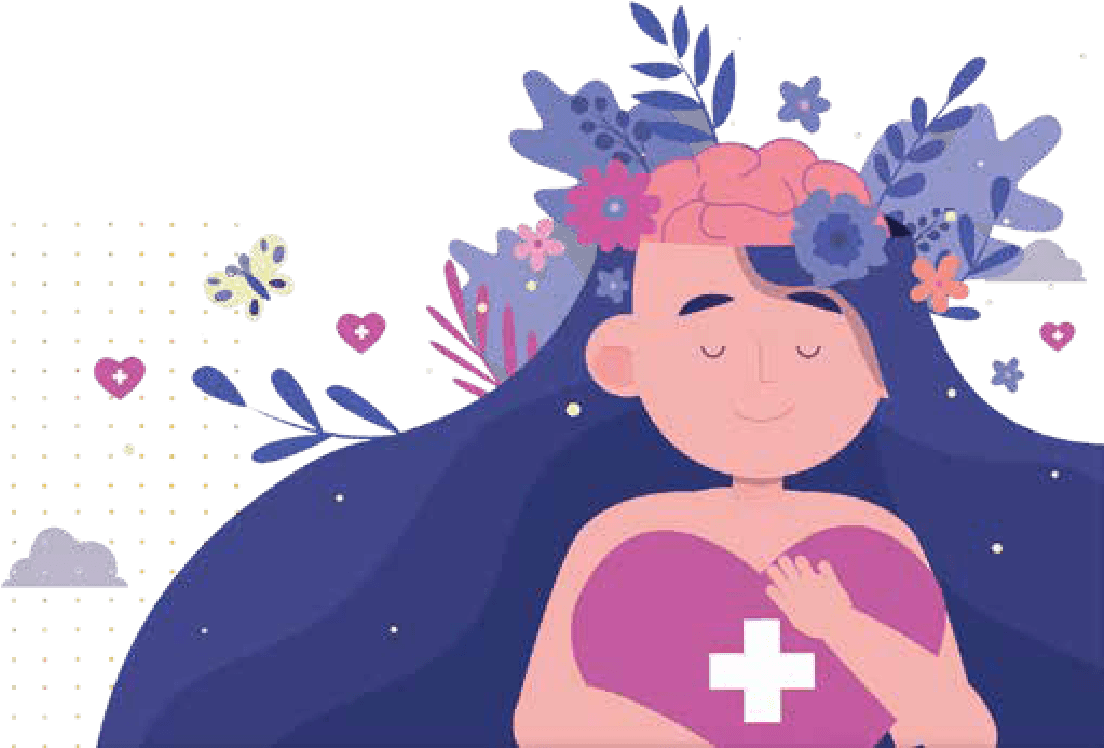
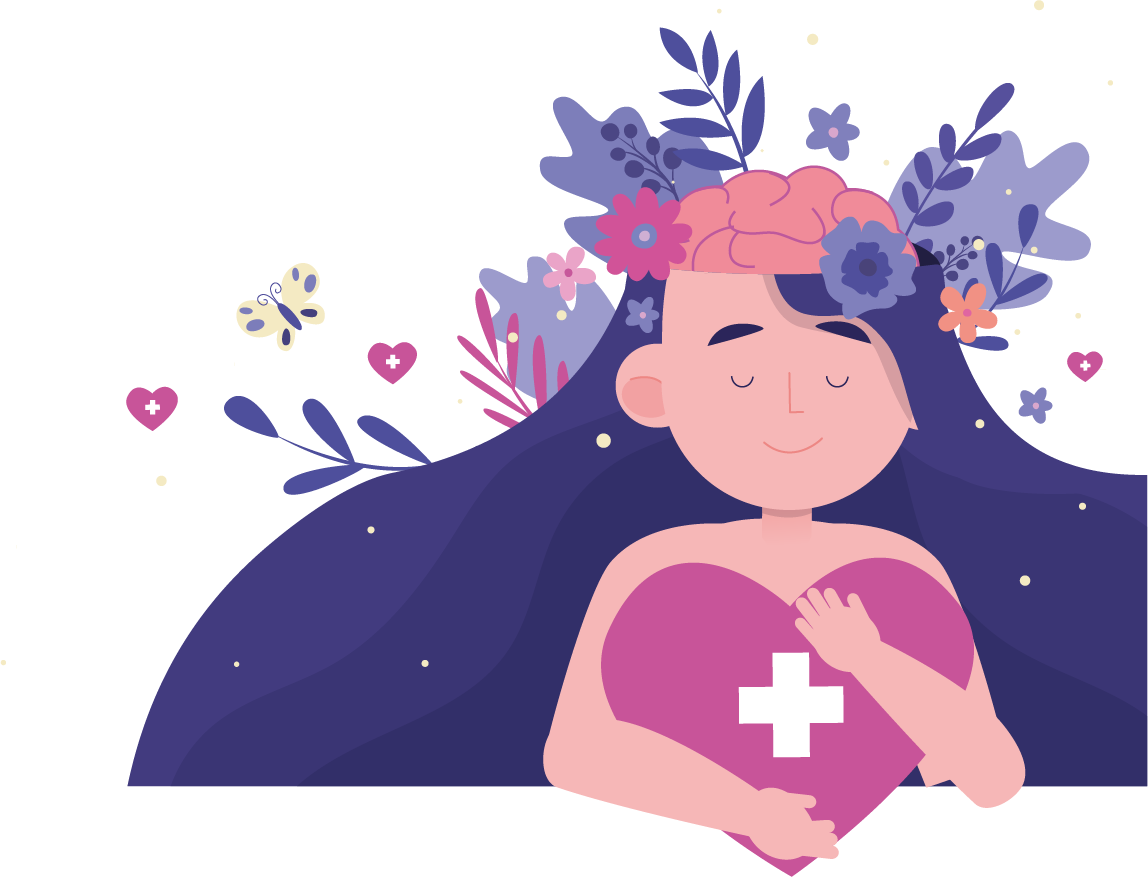
imagenes corregidas

diff --git a/html/index.html b/html/index.html
@@ -195,7 +195,7 @@
                 <p>
                     Es una Red Nacional de acompañamiento remoto a través de la cual se brinda acompañamiento a la salud mental de personas adolescentes y jóvenes que atraviesan problemáticas emocionales y psicosociales, quienes solicitan y reciben la atención a través de mensajería electrónica (WhatsApp y Facebook Messenger).  
                 </p>
-                <h1>¿Quién brinda el acompañamiento ? </h1>
+                <h1>¿Quién brinda el acompañamiento? </h1>
                 <p>
                     El servicio de acompañamiento psicoemocional que se promueve a través de CONTACTO JOVEN, es ofrecido por una red de “acompañantes”, quienes son personas jóvenes estudiantes y profesionales las áreas de atención a la salud, ciencias sociales y humanidades, que a través de su servicio social universitario y/o voluntariado, brindan acompañamiento psicoemocional entre pares, es decir de joven a joven. En CONTACTO JOVEN no se ofrece psicoterapia o tratamiento psiquiátrico. 
                 </p>

diff --git a/css/index.css b/css/index.css
@@ -79,9 +79,12 @@ header a:hover {
 
 @media (max-width: 1320px) {
     .container-1 {
-        grid-template-columns: 1fr; 
+        grid-template-columns: 1fr;
     }
 }
+
+
+
 
 .qrBoton{
     padding-left: 40px;
@@ -283,6 +286,11 @@ footer{
     color: white;
     text-align: center;
     padding: 20px;
+}
+
+footer img{
+    width: 300px;
+    height: 300px;
 }
 
 @media (max-width: 768px) {

diff --git a/css/acerca.css b/css/acerca.css
@@ -59,6 +59,11 @@ footer{
     }
 }
 
+footer img{
+    width: 300px;
+    height: 300px;
+}
+
 .container-1{
     padding-top: 40px;
     display: grid;
@@ -95,7 +100,7 @@ footer{
 
 .container-2 img{
     width: 200px;
-    height: 80px;
+    height: 200px;
 }
 
 .imagen2{

diff --git a/css/politica.css b/css/politica.css
@@ -176,3 +176,8 @@ footer{
         grid-template-columns: 1fr; 
     }
 }
+
+footer img{
+    width: 300px;
+    height: 300px;
+}

diff --git a/css/toolkit.css b/css/toolkit.css
@@ -143,3 +143,8 @@ footer{
         grid-template-columns: 1fr; 
     }
 }
+
+footer img{
+    width: 300px;
+    height: 300px;
+}
